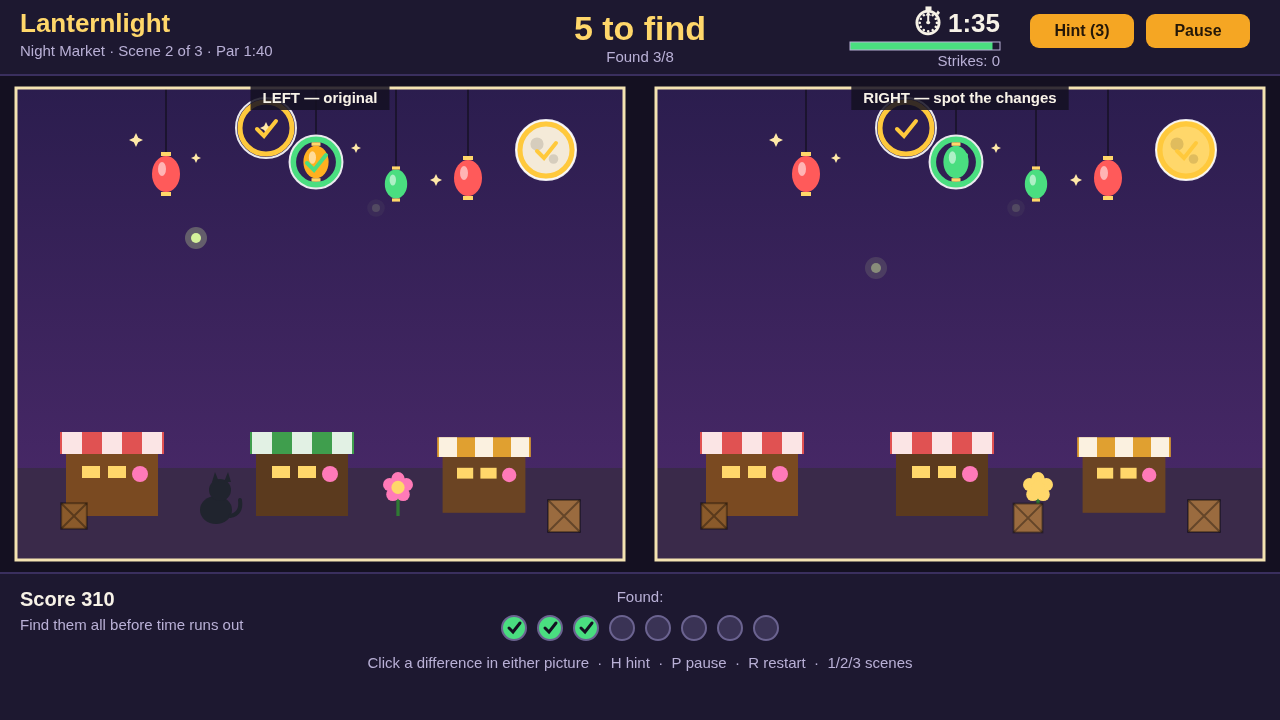
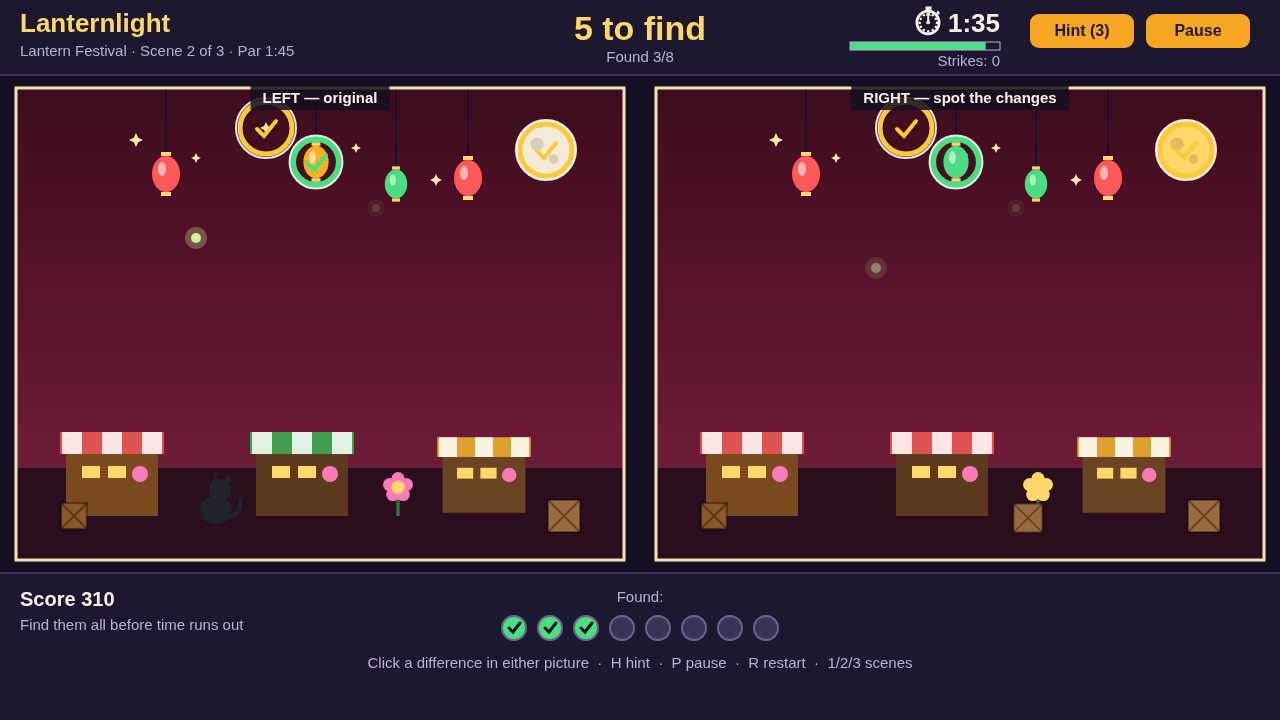
V4: new palettes — Harbour at Noon, Lantern Festival, Autumn Garden

diff --git a/game/src/scenes.js b/game/src/scenes.js
@@ -7,12 +7,12 @@
 
 export const LANTERNLIGHT_SCENES = [
   {
-    name: 'Harbour at Dusk',
-    parSeconds: 75,
-    sky: ['#ffd9a0', '#ff9d76'],
+    name: 'Harbour at Noon',
+    parSeconds: 90,
+    sky: ['#7ec8f7', '#cfeeff'],
     groundY: 360,
-    ground: '#f2d8a7',
-    water: { y: 290, h: 70, color: '#2e7f9e' },
+    ground: '#f7e3b0',
+    water: { y: 290, h: 70, color: '#2a9db5' },
     objects: [
       { k: 'sun', x: 520, y: 70, r: 36, c: '#ffdf6b' },
       { k: 'cloud', x: 110, y: 62, s: 1.0, c: '#fff6e8' },
@@ -41,15 +41,17 @@ export const LANTERNLIGHT_SCENES = [
       { x: 322, y: 110, obj: 4, change: { x: 322, y: 110 } },
       { x: 64, y: 235, obj: 5, change: { stripe: '#2e7f9e' } },
       { x: 252, y: 390, obj: 7, change: { roof: '#e07856' } },
+      { x: 432, y: 300, obj: 9, change: { sail: '#ffd76a' } },
       { x: 302, y: 338, obj: 12, change: { hide: true } },
+      { x: 480, y: 318, add: { k: 'fish', x: 480, y: 318, s: 0.9, c: '#4ade80' } },
     ],
   },
   {
-    name: 'Night Market',
-    parSeconds: 100,
-    sky: ['#2b1d4e', '#4c2a6b'],
+    name: 'Lantern Festival',
+    parSeconds: 105,
+    sky: ['#3d0c1e', '#7a1f3d'],
     groundY: 380,
-    ground: '#3a2a4a',
+    ground: '#2a0e1e',
     water: null,
     objects: [
       { k: 'moon', x: 530, y: 62, r: 30, c: '#f4ead8' },
@@ -84,13 +86,13 @@ export const LANTERNLIGHT_SCENES = [
     ],
   },
   {
-    name: 'Garden Pond',
-    parSeconds: 130,
-    sky: ['#bfe8ff', '#e8f9ff'],
+    name: 'Autumn Garden',
+    parSeconds: 120,
+    sky: ['#ffe0b3', '#ffd0a0'],
     groundY: 300,
-    ground: '#7ec850',
+    ground: '#c98f3d',
     water: null,
-    pond: { x: 304, y: 392, rx: 220, ry: 58, color: '#4db2e8' },
+    pond: { x: 304, y: 392, rx: 220, ry: 58, color: '#5aa8d8' },
     objects: [
       { k: 'sun', x: 90, y: 66, r: 34, c: '#ffdf6b' },
       { k: 'cloud', x: 280, y: 56, s: 0.9, c: '#ffffff' },
@@ -122,8 +124,6 @@ export const LANTERNLIGHT_SCENES = [
       { x: 540, y: 250, obj: 6, change: { leaf: '#e07856' } },
       { x: 450, y: 170, add: { k: 'butterfly', x: 450, y: 170, s: 0.9, c: '#ffd76a' } },
       { x: 304, y: 330, obj: 16, change: { c: '#7c3f16' } },
-      { x: 120, y: 380, obj: 14, change: { c: '#7c6a55' } },
-      { x: 390, y: 140, obj: 4, change: { x: 390, y: 140 } },
     ],
   },
 ];

diff --git a/game/src/shots.js b/game/src/shots.js
@@ -6,15 +6,15 @@
 import { startLanternlightScene } from './engine.js';
 
 const LANTERNLIGHT_SHOT_PRESETS = {
-  // The cover: scene 1 mid-hunt — three differences found (gold rings on both
+  // The cover: scene 1 mid-hunt — five differences found (gold rings on both
   // panels), three still hiding, counter and timer big and readable.
-  cover: { scene: 0, found: [0, 1, 2], secondsLeft: 58, phase: 'play', score: 320 },
+  cover: { scene: 0, found: [0, 1, 2, 3, 4], secondsLeft: 72, phase: 'play', score: 540 },
   // Scene 2 mid-hunt, three found.
   market: { scene: 1, found: [0, 1, 2], secondsLeft: 95, phase: 'play', score: 310 },
   // Scene 3 nearly done, six found, clock running low.
   garden: { scene: 2, found: [0, 1, 2, 3, 4, 5], secondsLeft: 48, phase: 'play', score: 650 },
   // The victory card after all three scenes.
-  win: { scene: 2, found: [0, 1, 2, 3, 4, 5, 6, 7, 8, 9], secondsLeft: 41, phase: 'victory', score: 2450 },
+  win: { scene: 2, found: [0, 1, 2, 3, 4, 5, 6, 7], secondsLeft: 41, phase: 'victory', score: 2450 },
   // The title screen.
   start: { scene: 0, found: [], secondsLeft: 90, phase: 'title', score: 0 },
 };

diff --git a/game/src/render.js b/game/src/render.js
@@ -741,7 +741,7 @@ export function drawLanternlightOverlay(ctx, state) {
     return drawLanternlightCard(ctx, 'Lanternlight', [
       'Spot the difference — two pictures, changes hiding in the right one.',
       'Click a change in either picture. Find them all before time runs out.',
-      'Three scenes, rising difficulty: Harbour at Dusk, Night Market, Garden Pond.',
+      'Three scenes: Harbour at Noon, Lantern Festival, Autumn Garden.',
     ], [{ id: 'start', label: '▶  Start playing' }]);
   }
   if (state.phase === 'scene-complete') {

diff --git a/README.md b/README.md
@@ -4,7 +4,7 @@
 [![rank](https://make.fun/badge/best-spot-the-difference-game-20261121-0451/feru-art/lanternlight-spot-the-difference/rank.svg)](https://make.fun/bounty/best-spot-the-difference-game-20261121-0451/leaderboard?utm_source=github&utm_medium=readme&utm_campaign=best-spot-the-difference-game-20261121-0451)
 [![reward](https://make.fun/badge/best-spot-the-difference-game-20261121-0451/feru-art/lanternlight-spot-the-difference/reward.svg)](https://make.fun/bounty/best-spot-the-difference-game-20261121-0451?utm_source=github&utm_medium=readme&utm_campaign=best-spot-the-difference-game-20261121-0451)
 
-Lanternlight — Spot the Difference: a complete spot-the-difference game in static files. Two near-identical pictures side by side, six to ten fair differences per scene with rising difficulty, three original scenes (Harbour at Dusk, Night Market, Garden Pond), found markers with a satisfying ring, hints, a countdown you can feel, combo scoring and a victory screen. Click a difference in either picture — keyboard: H hint, P pause, R restart, 1/2/3 scenes.
+Lanternlight — Spot the Difference: a complete spot-the-difference game in static files. Two near-identical pictures side by side, six to ten fair differences per scene with rising difficulty, three original scenes (Harbour at Noon, Lantern Festival, Autumn Garden), found markers with a satisfying ring, hints, a countdown you can feel, combo scoring and a victory screen. Click a difference in either picture — keyboard: H hint, P pause, R restart, 1/2/3 scenes.
 
 ## Run it
 
